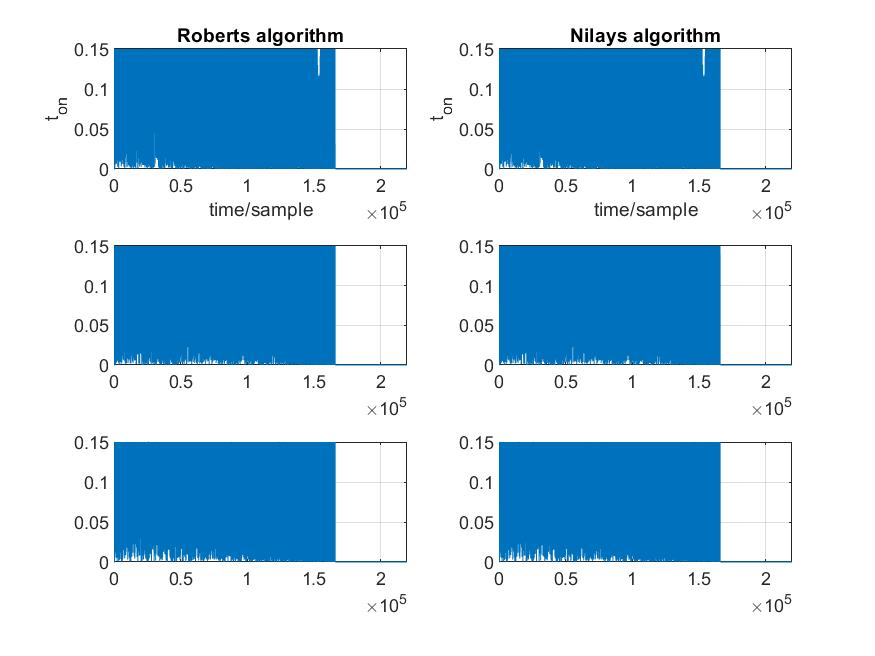
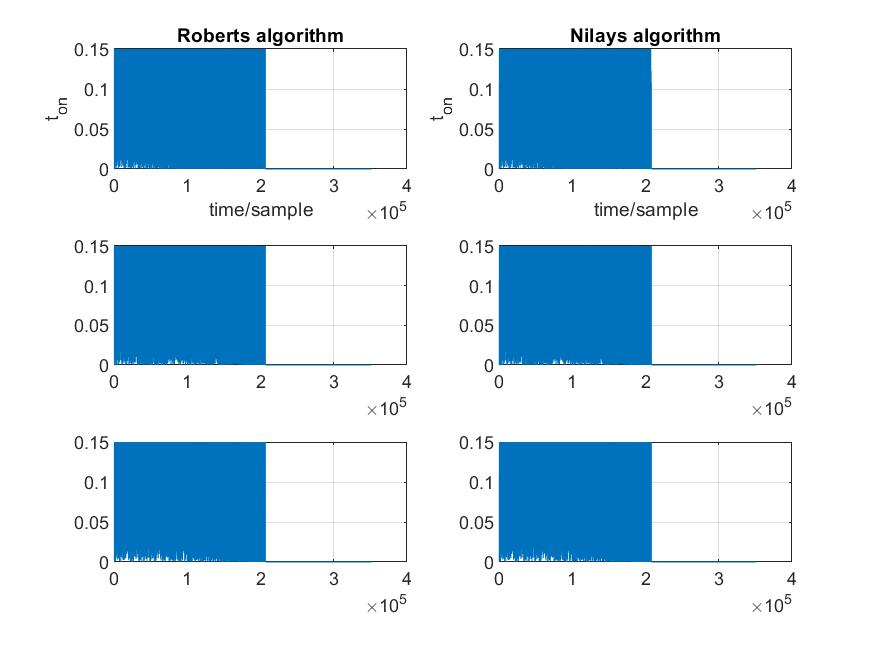
also write TUMBLE COUNTs, v03 dataset (plots yet not accurate)

diff --git a/detumble_bdot/detumble_algo.c b/detumble_bdot/detumble_algo.c
@@ -87,15 +87,11 @@ vector_t step5_tumbleParam(vector_t b_dot_norm)
 {
 	// TODO: verify on MSP432: check if it works, the static implemenation
 	static vector_t p_tumb    = {2,2,2};
-	// static vector_t b_dot_old = {0,0,0};
 	
 	// if (b_dot_old.x != b_dot_norm.x || b_dot_old.y != b_dot_norm.y || b_dot_old.z != b_dot_norm.z) {
 	p_tumb.x = alpha* fabs(b_dot_norm.x) + (1-alpha)*p_tumb.x;
 	p_tumb.y = alpha* fabs(b_dot_norm.y) + (1-alpha)*p_tumb.y;
 	p_tumb.z = alpha* fabs(b_dot_norm.z) + (1-alpha)*p_tumb.z;
-	//}
-	// make sure it doesn't matter if the below statement is inside/outside the above if loop
-	//b_dot_old = b_dot_norm;
 	
 	return p_tumb;
 }
@@ -108,23 +104,29 @@ double detumble_p_bar_low = 0.075;
  * output: c_tumble
  * Make sure the counter is unsigned int, unclear overflow errors upon saturation
  */
-void step6_countUpdate(vector_t b_dot_norm, unsigned int* detumble_count_detumb, unsigned int* detumble_count_tumb)
+void step6_countUpdate(vector_t b_dot_norm, unsigned int* c_tumb, unsigned int* c_detumb)
 {
 	// static int detumble_count_detumb = 0;
 	// static int detumble_count_tumb = 0;
 
 	if (b_dot_norm.x <= detumble_p_bar_low && b_dot_norm.y <= detumble_p_bar_low && b_dot_norm.z <= detumble_p_bar_low) {
-		*detumble_count_detumb = *detumble_count_detumb + 1;
+		// saturate timer, avoid overflows
+		if (*c_detumb < 65535) {
+			*c_detumb = *c_detumb + 1;
+		}
 	}
 	else {
-		*detumble_count_detumb = 0;
+		*c_detumb = 0;
 	}
 
 	if (b_dot_norm.x >= detumble_p_bar_upp || b_dot_norm.y >= detumble_p_bar_upp || b_dot_norm.z >= detumble_p_bar_upp) {
-		*detumble_count_tumb = *detumble_count_tumb + 1;
+		// saturate timer, avoid overflows
+		if (*c_tumb < 65535) {
+			*c_tumb = *c_tumb + 1;
+		}
 	}
 	else {
-		*detumble_count_tumb = 0;
+		*c_tumb = 0;
 	}
 }
 
@@ -135,22 +137,16 @@ double t_conf_detumb = 3600;
  * input: c_tumble, c_detumble
  * output: returns bool chi_tumb
  */
-int step7_assessRotation(int c_detumb, int c_tumb) //, vector_t b_cur, vector_t b_dot_norm, vector_t* t_on, vector_t* s_on)
+int step7_assessRotation(unsigned int* c_tumb, unsigned int* c_detumb) //, vector_t b_cur, vector_t b_dot_norm, vector_t* t_on, vector_t* s_on)
 {
-	// TODO: shouldn't ideally be static, verify what happens when no IF loop is taken
+	// NB: Should be static!!
 	static int chi_tumb = 0;
 	// Verify IF loop multiplication overflows signed?!
-	if (c_tumb*Tc >= t_conf_tumb) {
+	if (*c_tumb * Tc >= t_conf_tumb) {
 		chi_tumb = 1;
-		/*
-		m_des = step8_controlCalc(b_cur, b_dot_norm);
-		step9_torqueActuate(m_des, m_pol, t_on, s_on);
-		// todo: actuate
-		*/
 	}
-	if (c_detumb*Tc >= t_conf_detumb) {
+	if (*c_detumb * Tc >= t_conf_detumb) {
 		chi_tumb = 0;
-		//step10_hold();
 	}
 	return chi_tumb;
 }
@@ -221,15 +217,17 @@ double step11_hold()
 }
 
 
-void controlLoop(vector_t b1_raw, vector_t b2_raw, vector_t* s_on, vector_t* t_on, vector_t* p_tumb)
+void controlLoop(vector_t b1_raw, vector_t b2_raw, 
+				 vector_t* s_on, vector_t* t_on, vector_t* p_tumb, 
+				 unsigned int* c_tumb, unsigned int* c_detumb)
 {
 		vector_t b_cur, b_cur_norm, b_dot, b_dot_norm;
 		static vector_t b_prev = { 0,0,0 };
 		static vector_t b_prev_norm = { 0,0,0 };
 		vector_t m_des = { 0,0,0 };
 		vector_t m_pol = { 1,1,1 };
-		static unsigned int c_tumb = 0;
-		static unsigned int c_detumb = 0;
+		// static unsigned int c_tumb = 0;
+		// static unsigned int c_detumb = 0;
 
 		// since old values are not used, might as well clear them to avoid garbage when actuation period is zero
 		t_on->x = 0;
@@ -247,9 +245,9 @@ void controlLoop(vector_t b1_raw, vector_t b2_raw, vector_t* s_on, vector_t* t_o
 		b_prev_norm = b_cur_norm;
 
 		*p_tumb = step5_tumbleParam(b_dot_norm);
-		step6_countUpdate(*p_tumb, &c_detumb, &c_tumb);
+		step6_countUpdate(*p_tumb, c_tumb, c_detumb);
 
-		if (step7_assessRotation(c_detumb, c_tumb) > 0) {
+		if (step7_assessRotation(c_tumb, c_detumb) > 0) {
 			m_des = step9_controlCalc(b_cur, b_dot_norm);
 			step10_torqueActuate(m_des, m_pol, t_on, s_on);
 			step11_hold();

diff --git a/detumble_bdot/detumble_algo.h b/detumble_bdot/detumble_algo.h
@@ -61,14 +61,16 @@ typedef struct {
 void step3_biasCalc(double w1, vector_t b1_raw, vector_t b1_bias, double w2, vector_t b2_raw, vector_t b2_bias, vector_t* b_cur, vector_t* b_cur_norm);
 void step4_bdotCalc(vector_t b_cur, vector_t b_cur_norm, vector_t b_prev, vector_t b_prev_norm, vector_t* b_dot, vector_t* b_dot_norm);
 vector_t step5_tumbleParam(vector_t b_dot);
-void step6_countUpdate(vector_t p_tumb, int* detumble_count_detumb, int* detumble_count_tumb);
-int step7_assessRotation(int c_tumble, int c_detumb);//, vector_t b_cur, vector_t b_dot_norm, vector_t* t_on, vector_t* s_on);
+void step6_countUpdate(vector_t p_tumb, unsigned int* c_tumb, unsigned int* c_detumb);
+int step7_assessRotation(unsigned int* c_tumb, unsigned int* c_detumb);//, vector_t b_cur, vector_t b_dot_norm, vector_t* t_on, vector_t* s_on);
 // TODO: Step8 to be implemented on OBC
 vector_t step9_controlCalc(vector_t b_cur, vector_t b_dot_norm);
 void step10_torqueActuate(vector_t m_des, vector_t m_pol, vector_t* t_on, vector_t* s_on);
 double step11_hold();
 
-void controlLoop(vector_t b1_raw, vector_t b2_raw, vector_t* s_on, vector_t* t_on, vector_t* p_tumb);
+void controlLoop(vector_t b1_raw, vector_t b2_raw, 
+				 vector_t* s_on, vector_t* t_on, vector_t* p_tumb, 
+				 unsigned int* c_tumb, unsigned int* c_detumb);
 
 #ifdef __cplusplus
 }

diff --git a/detumble_bdot/plot_detumble.m b/detumble_bdot/plot_detumble.m
@@ -1,7 +1,7 @@
 %% plot detumble parameter for verifying the C and matlab detumble algorithms
 
-readMatrix_r = csvread('data4test_02_in.csv', 1, 0);
-readMatrix_n = csvread('data4test_02_out.csv', 1, 0);
+readMatrix_r = csvread('data4test_03_in.csv', 1, 0);
+readMatrix_n = csvread('data4test_03_out.csv', 1, 0);
 
 plot_save1 = figure(1);
 pu1 = subplot(2,1,1);
@@ -69,3 +69,21 @@ plot(readMatrix_n(:,9)); grid on;
 linkaxes([pt1,pt2,pt3,pt4,pt5,pt6],'xy');
 
 saveas(plot_save3,'cmp3','jpg');
+
+%%
+plot_save4 = figure(4);
+
+pv1 = subplot(2,2,1);
+plot(readMatrix_r(:,16)); grid on;
+title('Roberts c_{tumb}');
+pv3 = subplot(2,2,3);
+plot(readMatrix_r(:,17)); grid on;
+title('Roberts c_{detumb}');
+pv2 = subplot(2,2,2);
+plot(readMatrix_n(:,16)); grid on;
+title('Nilays c_{tumb}');
+pv4 = subplot(2,2,4);
+plot(readMatrix_n(:,17)); grid on;
+linkaxes([pv1,pv2,pv3,pv4], 'xy');
+title('Nilays c_{detumb}');
+saveas(plot_save4,'cmp4','jpg');

diff --git a/detumble_bdot/README.MD b/detumble_bdot/README.MD
@@ -22,3 +22,5 @@
 ![Tumbling parameter plots](https://github.com/nilay994/detumble/blob/master/detumble_bdot/cmp1.jpg)
 ![Magnetorquers sign plots](https://github.com/nilay994/detumble/blob/master/detumble_bdot/cmp2.jpg)
 ![Magnetorquers time plots](https://github.com/nilay994/detumble/blob/master/detumble_bdot/cmp3.jpg)
+![Tumble count plots]
+(https://github.com/nilay994/detumble/blob/master/detumble_bdot/cmp4.jpg)
